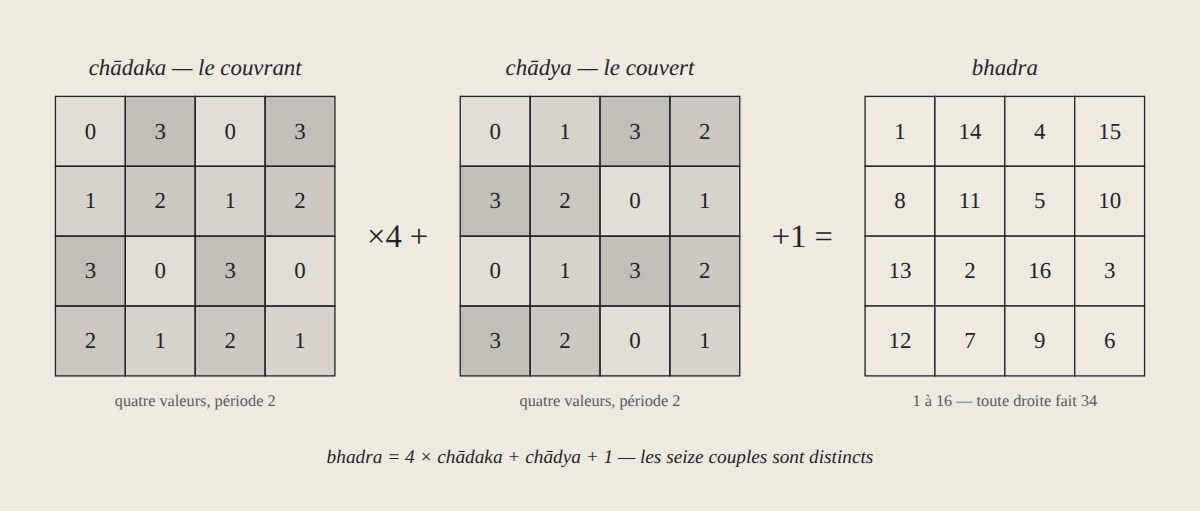
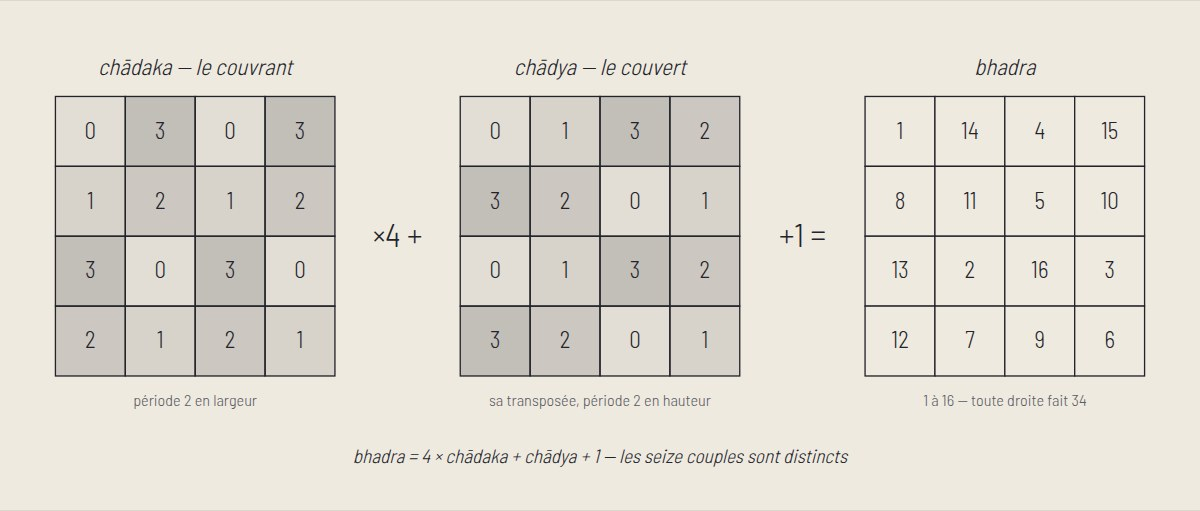
Article « Le fil et le carré » : figure corrigée, en ligne, et les deux passages d'Anibal
La figure corrigée par Anibal (déposée dans book-viewer/) remplace la
précédente dans assets/articles/chadya-chadaka.svg ; l'ancienne est gardée
dans assets/articles/anciennes/. Vérifiée : le chādya est la transposée du
chādaka, période 2 en largeur pour l'un, en hauteur pour l'autre ; leur
combinaison 4 × chādaka + chādya + 1 redonne le même carré, les seize
droites font 34.

Elle est incluse EN LIGNE dans la page, pour que son font-family:inherit
prenne la police du site : tools/figure_en_ligne.mjs l'y écrit depuis son
fichier (règles de style restreintes à la figure, vues étroites par <use>
sur la même figure, aucune copie à la main ; --verifie en CI). Les deux
passages de l'article corrigés par Anibal (la légende, et « Il y a plus
économe encore ») sont repris mot pour mot. Couverture refaite depuis le
rendu de la page ; texte alternatif repris de la description de la figure.

check_article.mjs et check_police_pages.mjs lisent la figure en ligne : 57
textes dans la police du site, six vues lisibles à 390 px.

Claude-Session: https://claude.ai/code/session_011CBGTEEw1pUWrFDkYyN71b

diff --git a/articles/le-fil-et-le-carre.html b/articles/le-fil-et-le-carre.html
@@ -149,27 +149,19 @@
   .article-content ul{ text-align:left; margin:0 0 18px; padding-left:1.4em; }
   .article-content li{ margin:0 0 6px; }
   .article-content ul.article-sources a{ color:var(--gold); text-decoration:underline; text-decoration-color:rgba(201,161,90,.45); text-underline-offset:3px; }
-  /* La figure est un SVG : vectorielle, son texte se lit à toute taille. En
-     entier sur un écran large ; sous 640 px, ses trois grilles passent l'une
-     sous l'autre plutôt que de rétrécir. Chaque vue est une fenêtre sur le
-     même fichier, non retouché : la fenêtre a les proportions du cadrage
-     (--w × --h, en unités du SVG), le SVG entier y est agrandi et décalé de
-     (--x, --y). */
-  .article-content figure.figure-svg img{ border:none; background:none; }
+  /* La figure est un SVG EN LIGNE (tools/figure_en_ligne.mjs) : vectorielle,
+     son texte prend la police du site (font-family:inherit) et se lit à toute
+     taille. En entier sur un écran large ; sous 640 px, ses trois grilles
+     passent l'une sous l'autre plutôt que de rétrécir : chaque vue est un
+     petit <svg viewBox="cadrage"> qui réutilise la même figure par <use>. */
+  .article-content figure.figure-svg svg{ display:block; width:100%; height:auto; }
   .figure-etroite{ display:none; }
   @media (max-width:640px){
-    .figure-large{ display:none !important; }
+    .article-content figure.figure-svg .figure-large{ display:none; }
     .figure-etroite{ display:flex; flex-direction:column; align-items:center; background:#efeae0; border:1px solid var(--line); padding:8px 0; }
-    .figure-etroite .vue{ display:block; overflow:hidden; aspect-ratio:var(--w) / var(--h); }
-    .article-content .figure-etroite .vue img{
-      display:block; max-width:none; height:auto;
-      width:calc(996 / var(--w) * 100%);
-      margin-left:calc(var(--x) / var(--w) * -100%);
-      margin-top:calc(var(--y) / var(--w) * -100%);
-    }
-    .figure-etroite .vue-grille{ width:min(100%, 300px); }
-    .figure-etroite .vue-operation{ width:72px; }
-    .figure-etroite .vue-formule{ width:100%; }
+    .article-content figure.figure-svg .figure-etroite .vue-grille{ width:min(100%, 300px); }
+    .article-content figure.figure-svg .figure-etroite .vue-operation{ width:72px; }
+    .article-content figure.figure-svg .figure-etroite .vue-formule{ width:100%; }
   }
   /* le code garde la police du site : une police à chasse fixe du système
      n'aurait ni la même allure ni, partout, le ā */
@@ -336,18 +328,139 @@
       <h3>La superposition de deux carrés</h3>
       <p>La méthode qui me parle le plus est celle du recouvrement. Nārāyaṇa construit un carré magique en superposant <b>deux carrés auxiliaires</b>, le <b>chādya</b> (le couvert) et le <b>chādaka</b> (le couvrant). Chacun est simple ; c'est leur composition qui porte la propriété.</p>
       <figure class="figure-svg">
-        <img class="figure-large" src="../assets/articles/chadya-chadaka.svg" alt="Deux trames de période 2, superposées, donnant un carré pandiagonal d&#x27;ordre 4 dont toutes les droites — lignes, colonnes et diagonales brisées — font 34." width="996" height="424" loading="lazy">
-        <div class="figure-etroite" role="img" aria-label="Deux trames de période 2, superposées, donnant un carré pandiagonal d&#x27;ordre 4 dont toutes les droites — lignes, colonnes et diagonales brisées — font 34.">
-          <span class="vue vue-grille" style="--x:36; --y:38; --w:252; --h:308"><img src="../assets/articles/chadya-chadaka.svg" alt="" width="996" height="424" loading="lazy"></span>
-          <span class="vue vue-operation" style="--x:290; --y:172; --w:80; --h:50"><img src="../assets/articles/chadya-chadaka.svg" alt="" width="996" height="424" loading="lazy"></span>
-          <span class="vue vue-grille" style="--x:372; --y:38; --w:252; --h:308"><img src="../assets/articles/chadya-chadaka.svg" alt="" width="996" height="424" loading="lazy"></span>
-          <span class="vue vue-operation" style="--x:626; --y:172; --w:80; --h:50"><img src="../assets/articles/chadya-chadaka.svg" alt="" width="996" height="424" loading="lazy"></span>
-          <span class="vue vue-grille" style="--x:708; --y:38; --w:252; --h:308"><img src="../assets/articles/chadya-chadaka.svg" alt="" width="996" height="424" loading="lazy"></span>
-          <span class="vue vue-formule" style="--x:250; --y:360; --w:496; --h:34"><img src="../assets/articles/chadya-chadaka.svg" alt="" width="996" height="424" loading="lazy"></span>
-        </div>
-        <figcaption>Le couvrant porte quatre valeurs, le couvert aussi ; ni l'un ni l'autre n'est magique. Mais les seize couples qu'ils forment sont tous distincts, et leur combinaison <code>4 × chādaka + chādya + 1</code> donne les entiers de 1 à 16 rangés de telle sorte que les seize droites du carré — quatre lignes, quatre colonnes, huit diagonales brisées — font toutes 34. J'ai vérifié les seize.</figcaption>
+      <!-- @figure:fig-chadya:start — engendré par tools/figure_en_ligne.mjs depuis assets/articles/chadya-chadaka.svg, ne pas éditer ici -->
+  <svg class="figure-large" viewBox="0 0 996 424" role="img" aria-label="Trois grilles de quatre sur quatre. À gauche le chādaka, dont les lignes se répètent de période deux en largeur. Au centre le chādya, sa transposée, de période deux en hauteur. À droite leur combinaison : les entiers de un à seize, dont les quatre lignes, les quatre colonnes et les huit diagonales brisées font toutes trente-quatre.">
+  <g id="fig-chadya">
+  <style>
+    #fig-chadya text{font-family:inherit;fill:#23232b}
+    #fig-chadya .t{font-size:19px;text-anchor:middle;font-style:italic}
+    #fig-chadya .s{font-size:13.5px;text-anchor:middle;fill:#5a5a62}
+    #fig-chadya .n{font-size:19px;text-anchor:middle}
+    #fig-chadya .op{font-size:27px;text-anchor:middle}
+    #fig-chadya .f{font-size:16px;text-anchor:middle;font-style:italic}
+  
+  </style>
+  <rect width="996" height="424" fill="#efeae0"/>
+  <text x="162.0" y="62" class="t">chādaka — le couvrant</text>
+  <text x="162.0" y="337" class="s">période 2 en largeur</text>
+  <rect x="46" y="80" width="58" height="58" fill="rgba(35,35,43,0.060)" stroke="#23232b" stroke-width="1.1"/>
+  <text x="75.0" y="115.0" class="n">0</text>
+  <rect x="104" y="80" width="58" height="58" fill="rgba(35,35,43,0.220)" stroke="#23232b" stroke-width="1.1"/>
+  <text x="133.0" y="115.0" class="n">3</text>
+  <rect x="162" y="80" width="58" height="58" fill="rgba(35,35,43,0.060)" stroke="#23232b" stroke-width="1.1"/>
+  <text x="191.0" y="115.0" class="n">0</text>
+  <rect x="220" y="80" width="58" height="58" fill="rgba(35,35,43,0.220)" stroke="#23232b" stroke-width="1.1"/>
+  <text x="249.0" y="115.0" class="n">3</text>
+  <rect x="46" y="138" width="58" height="58" fill="rgba(35,35,43,0.113)" stroke="#23232b" stroke-width="1.1"/>
+  <text x="75.0" y="173.0" class="n">1</text>
+  <rect x="104" y="138" width="58" height="58" fill="rgba(35,35,43,0.167)" stroke="#23232b" stroke-width="1.1"/>
+  <text x="133.0" y="173.0" class="n">2</text>
+  <rect x="162" y="138" width="58" height="58" fill="rgba(35,35,43,0.113)" stroke="#23232b" stroke-width="1.1"/>
+  <text x="191.0" y="173.0" class="n">1</text>
+  <rect x="220" y="138" width="58" height="58" fill="rgba(35,35,43,0.167)" stroke="#23232b" stroke-width="1.1"/>
+  <text x="249.0" y="173.0" class="n">2</text>
+  <rect x="46" y="196" width="58" height="58" fill="rgba(35,35,43,0.220)" stroke="#23232b" stroke-width="1.1"/>
+  <text x="75.0" y="231.0" class="n">3</text>
+  <rect x="104" y="196" width="58" height="58" fill="rgba(35,35,43,0.060)" stroke="#23232b" stroke-width="1.1"/>
+  <text x="133.0" y="231.0" class="n">0</text>
+  <rect x="162" y="196" width="58" height="58" fill="rgba(35,35,43,0.220)" stroke="#23232b" stroke-width="1.1"/>
+  <text x="191.0" y="231.0" class="n">3</text>
+  <rect x="220" y="196" width="58" height="58" fill="rgba(35,35,43,0.060)" stroke="#23232b" stroke-width="1.1"/>
+  <text x="249.0" y="231.0" class="n">0</text>
+  <rect x="46" y="254" width="58" height="58" fill="rgba(35,35,43,0.167)" stroke="#23232b" stroke-width="1.1"/>
+  <text x="75.0" y="289.0" class="n">2</text>
+  <rect x="104" y="254" width="58" height="58" fill="rgba(35,35,43,0.113)" stroke="#23232b" stroke-width="1.1"/>
+  <text x="133.0" y="289.0" class="n">1</text>
+  <rect x="162" y="254" width="58" height="58" fill="rgba(35,35,43,0.167)" stroke="#23232b" stroke-width="1.1"/>
+  <text x="191.0" y="289.0" class="n">2</text>
+  <rect x="220" y="254" width="58" height="58" fill="rgba(35,35,43,0.113)" stroke="#23232b" stroke-width="1.1"/>
+  <text x="249.0" y="289.0" class="n">1</text>
+  <text x="498.0" y="62" class="t">chādya — le couvert</text>
+  <text x="498.0" y="337" class="s">sa transposée, période 2 en hauteur</text>
+  <rect x="382" y="80" width="58" height="58" fill="rgba(35,35,43,0.060)" stroke="#23232b" stroke-width="1.1"/>
+  <text x="411.0" y="115.0" class="n">0</text>
+  <rect x="440" y="80" width="58" height="58" fill="rgba(35,35,43,0.113)" stroke="#23232b" stroke-width="1.1"/>
+  <text x="469.0" y="115.0" class="n">1</text>
+  <rect x="498" y="80" width="58" height="58" fill="rgba(35,35,43,0.220)" stroke="#23232b" stroke-width="1.1"/>
+  <text x="527.0" y="115.0" class="n">3</text>
+  <rect x="556" y="80" width="58" height="58" fill="rgba(35,35,43,0.167)" stroke="#23232b" stroke-width="1.1"/>
+  <text x="585.0" y="115.0" class="n">2</text>
+  <rect x="382" y="138" width="58" height="58" fill="rgba(35,35,43,0.220)" stroke="#23232b" stroke-width="1.1"/>
+  <text x="411.0" y="173.0" class="n">3</text>
+  <rect x="440" y="138" width="58" height="58" fill="rgba(35,35,43,0.167)" stroke="#23232b" stroke-width="1.1"/>
+  <text x="469.0" y="173.0" class="n">2</text>
+  <rect x="498" y="138" width="58" height="58" fill="rgba(35,35,43,0.060)" stroke="#23232b" stroke-width="1.1"/>
+  <text x="527.0" y="173.0" class="n">0</text>
+  <rect x="556" y="138" width="58" height="58" fill="rgba(35,35,43,0.113)" stroke="#23232b" stroke-width="1.1"/>
+  <text x="585.0" y="173.0" class="n">1</text>
+  <rect x="382" y="196" width="58" height="58" fill="rgba(35,35,43,0.060)" stroke="#23232b" stroke-width="1.1"/>
+  <text x="411.0" y="231.0" class="n">0</text>
+  <rect x="440" y="196" width="58" height="58" fill="rgba(35,35,43,0.113)" stroke="#23232b" stroke-width="1.1"/>
+  <text x="469.0" y="231.0" class="n">1</text>
+  <rect x="498" y="196" width="58" height="58" fill="rgba(35,35,43,0.220)" stroke="#23232b" stroke-width="1.1"/>
+  <text x="527.0" y="231.0" class="n">3</text>
+  <rect x="556" y="196" width="58" height="58" fill="rgba(35,35,43,0.167)" stroke="#23232b" stroke-width="1.1"/>
+  <text x="585.0" y="231.0" class="n">2</text>
+  <rect x="382" y="254" width="58" height="58" fill="rgba(35,35,43,0.220)" stroke="#23232b" stroke-width="1.1"/>
+  <text x="411.0" y="289.0" class="n">3</text>
+  <rect x="440" y="254" width="58" height="58" fill="rgba(35,35,43,0.167)" stroke="#23232b" stroke-width="1.1"/>
+  <text x="469.0" y="289.0" class="n">2</text>
+  <rect x="498" y="254" width="58" height="58" fill="rgba(35,35,43,0.060)" stroke="#23232b" stroke-width="1.1"/>
+  <text x="527.0" y="289.0" class="n">0</text>
+  <rect x="556" y="254" width="58" height="58" fill="rgba(35,35,43,0.113)" stroke="#23232b" stroke-width="1.1"/>
+  <text x="585.0" y="289.0" class="n">1</text>
+  <text x="834.0" y="62" class="t">bhadra</text>
+  <text x="834.0" y="337" class="s">1 à 16 — toute droite fait 34</text>
+  <rect x="718" y="80" width="58" height="58" fill="#efeae0" stroke="#23232b" stroke-width="1.1"/>
+  <text x="747.0" y="115.0" class="n">1</text>
+  <rect x="776" y="80" width="58" height="58" fill="#efeae0" stroke="#23232b" stroke-width="1.1"/>
+  <text x="805.0" y="115.0" class="n">14</text>
+  <rect x="834" y="80" width="58" height="58" fill="#efeae0" stroke="#23232b" stroke-width="1.1"/>
+  <text x="863.0" y="115.0" class="n">4</text>
+  <rect x="892" y="80" width="58" height="58" fill="#efeae0" stroke="#23232b" stroke-width="1.1"/>
+  <text x="921.0" y="115.0" class="n">15</text>
+  <rect x="718" y="138" width="58" height="58" fill="#efeae0" stroke="#23232b" stroke-width="1.1"/>
+  <text x="747.0" y="173.0" class="n">8</text>
+  <rect x="776" y="138" width="58" height="58" fill="#efeae0" stroke="#23232b" stroke-width="1.1"/>
+  <text x="805.0" y="173.0" class="n">11</text>
+  <rect x="834" y="138" width="58" height="58" fill="#efeae0" stroke="#23232b" stroke-width="1.1"/>
+  <text x="863.0" y="173.0" class="n">5</text>
+  <rect x="892" y="138" width="58" height="58" fill="#efeae0" stroke="#23232b" stroke-width="1.1"/>
+  <text x="921.0" y="173.0" class="n">10</text>
+  <rect x="718" y="196" width="58" height="58" fill="#efeae0" stroke="#23232b" stroke-width="1.1"/>
+  <text x="747.0" y="231.0" class="n">13</text>
+  <rect x="776" y="196" width="58" height="58" fill="#efeae0" stroke="#23232b" stroke-width="1.1"/>
+  <text x="805.0" y="231.0" class="n">2</text>
+  <rect x="834" y="196" width="58" height="58" fill="#efeae0" stroke="#23232b" stroke-width="1.1"/>
+  <text x="863.0" y="231.0" class="n">16</text>
+  <rect x="892" y="196" width="58" height="58" fill="#efeae0" stroke="#23232b" stroke-width="1.1"/>
+  <text x="921.0" y="231.0" class="n">3</text>
+  <rect x="718" y="254" width="58" height="58" fill="#efeae0" stroke="#23232b" stroke-width="1.1"/>
+  <text x="747.0" y="289.0" class="n">12</text>
+  <rect x="776" y="254" width="58" height="58" fill="#efeae0" stroke="#23232b" stroke-width="1.1"/>
+  <text x="805.0" y="289.0" class="n">7</text>
+  <rect x="834" y="254" width="58" height="58" fill="#efeae0" stroke="#23232b" stroke-width="1.1"/>
+  <text x="863.0" y="289.0" class="n">9</text>
+  <rect x="892" y="254" width="58" height="58" fill="#efeae0" stroke="#23232b" stroke-width="1.1"/>
+  <text x="921.0" y="289.0" class="n">6</text>
+  <text x="330.0" y="205.0" class="op">×4  +</text>
+  <text x="666.0" y="205.0" class="op">+1  =</text>
+  <text x="498.0" y="384" class="f">bhadra = 4 × chādaka + chādya + 1 — les seize couples sont distincts</text>
+  </g>
+  </svg>
+  <div class="figure-etroite" role="img" aria-label="Trois grilles de quatre sur quatre. À gauche le chādaka, dont les lignes se répètent de période deux en largeur. Au centre le chādya, sa transposée, de période deux en hauteur. À droite leur combinaison : les entiers de un à seize, dont les quatre lignes, les quatre colonnes et les huit diagonales brisées font toutes trente-quatre.">
+    <svg class="vue vue-grille" viewBox="36 38 252 308" aria-hidden="true" focusable="false"><use href="#fig-chadya"/></svg>
+    <svg class="vue vue-operation" viewBox="290 172 80 50" aria-hidden="true" focusable="false"><use href="#fig-chadya"/></svg>
+    <svg class="vue vue-grille" viewBox="372 38 252 308" aria-hidden="true" focusable="false"><use href="#fig-chadya"/></svg>
+    <svg class="vue vue-operation" viewBox="626 172 80 50" aria-hidden="true" focusable="false"><use href="#fig-chadya"/></svg>
+    <svg class="vue vue-grille" viewBox="708 38 252 308" aria-hidden="true" focusable="false"><use href="#fig-chadya"/></svg>
+    <svg class="vue vue-formule" viewBox="250 360 496 34" aria-hidden="true" focusable="false"><use href="#fig-chadya"/></svg>
+  </div>
+<!-- @figure:fig-chadya:end -->
+        <figcaption>Le couvrant est une trame de période 2 en largeur ; le couvert est <b>sa transposée</b>, donc de période 2 en hauteur. Ni l'un ni l'autre n'est magique. Mais les seize couples qu'ils forment sont tous distincts, et leur combinaison <code>4 × chādaka + chādya + 1</code> donne les entiers de 1 à 16 rangés de telle sorte que les seize droites du carré — quatre lignes, quatre colonnes, huit diagonales brisées — font toutes 34. J'ai vérifié les seize.</figcaption>
       </figure>
-      <p>C'est, structurellement, ce que je fais : une figure n'est pas dessinée, elle est le résultat de couches combinées, et la loi vit dans la combinaison plutôt que dans le dessin. Et le point commun le plus net est celui-ci : <b>aucune des deux couches ne porte la propriété.</b> Elle n'apparaît qu'à la superposition — comme une parité qui n'existe dans aucun axe pris seul. Mon système compose des axes par une parité ; le sien compose deux tableaux par une addition. L'opération diffère, le geste est le même — <b>déléguer la propriété à la composition</b>.</p>
+      <p>C'est, structurellement, ce que je fais : une figure n'est pas dessinée, elle est le résultat de couches combinées, et la loi vit dans la combinaison plutôt que dans le dessin. Et le point commun le plus net est celui-ci : <b>aucune des deux couches ne porte la propriété.</b> Elle n'apparaît qu'à la superposition — comme une parité qui n'existe dans aucun axe pris seul.</p>
+      <p>Il y a plus économe encore. Puisque le couvert est la transposée du couvrant, <b>il n'y a pas deux trames mais une seule</b>, posée deux fois, la seconde tournée d'un quart de tour. Toute la construction tient dans un motif et son transposé. C'est le genre de dépouillement que je cherche dans mon propre système, et le trouver là me confirme que la voie est praticable. Mon système compose des axes par une parité ; le sien compose deux tableaux par une addition. L'opération diffère, le geste est le même — <b>déléguer la propriété à la composition</b>.</p>
       <h3>Le pas du cheval</h3>
       <p>Son autre méthode porte un nom qui dit tout : <b>turagagati</b>, la marche du cheval. Les nombres se posent par pas de cavalier, par paires tirées de progressions, selon un ordre (<b>krama</b>) ou son renversement (<b>utkrama</b>).</p>
       <p>Un parcours réglé qui engendre une figure globale : c'est encore un air de famille avec une construction par règle plutôt que par placement.</p>

diff --git a/articles.html b/articles.html
@@ -312,7 +312,7 @@
 
     <div class="article-grid" id="articleGrid" aria-live="polite">
       <!-- @articles:start — engendré depuis assets/articles-data.js (scripts/build-articles.js) -->
-      <a class="article-card" href="https://anibal-amiot.com/articles/le-fil-et-le-carre.html"><img class="article-cover" src="https://anibal-amiot.com/assets/articles/le-fil-et-le-carre-cover.jpg" alt="Deux trames de période 2, superposées, donnant un carré pandiagonal d&#39;ordre 4 dont toutes les droites — lignes, colonnes et diagonales brisées — font 34." loading="lazy"><div class="article-card-body"><div class="article-badges"><span class="article-badge">Géométrie</span><span class="article-badge">Sagesse</span><span class="article-badge">Livrée</span></div><h2>Le fil et le carré — ce que la tradition indienne a construit avant nous</h2><p class="article-date">Publié le 4 octobre 2026</p><p class="article-excerpt">Deux systèmes élaborés dans des langues et des siècles différents arrivent aux mêmes objets. Quand ça se produit, ce n&#39;est généralement pas une coïncidence — c&#39;est que l&#39;objet existait avant les deux.</p></div></a>
+      <a class="article-card" href="https://anibal-amiot.com/articles/le-fil-et-le-carre.html"><img class="article-cover" src="https://anibal-amiot.com/assets/articles/le-fil-et-le-carre-cover.jpg" alt="Trois grilles de quatre sur quatre. À gauche le chādaka, dont les lignes se répètent de période deux en largeur. Au centre le chādya, sa transposée, de période deux en hauteur. À droite leur combinaison : les entiers de un à seize, dont les quatre lignes, les quatre colonnes et les huit diagonales brisées font toutes trente-quatre." loading="lazy"><div class="article-card-body"><div class="article-badges"><span class="article-badge">Géométrie</span><span class="article-badge">Sagesse</span><span class="article-badge">Livrée</span></div><h2>Le fil et le carré — ce que la tradition indienne a construit avant nous</h2><p class="article-date">Publié le 4 octobre 2026</p><p class="article-excerpt">Deux systèmes élaborés dans des langues et des siècles différents arrivent aux mêmes objets. Quand ça se produit, ce n&#39;est généralement pas une coïncidence — c&#39;est que l&#39;objet existait avant les deux.</p></div></a>
       <a class="article-card" href="https://anibal-amiot.com/articles/axes-lignes-nodales.html"><img class="article-cover" src="https://anibal-amiot.com/assets/articles/axes-lignes-nodales-cover.jpg" alt="Trois damiers 12×12 en or et noir : les motifs nodaux des modes (2,2) et (4,4) d&#39;une plaque carrée, bords fixes et bords libres" loading="lazy"><div class="article-card-body"><div class="article-badges"><span class="article-badge">Géométrie</span><span class="article-badge">Philosophie</span><span class="article-badge">Livrée</span></div><h2>Les axes sont des lignes nodales</h2><p class="article-date">Publié le 24 septembre 2026</p><p class="article-excerpt">Trois motifs bicolores, vérifiés triangle par triangle, coïncident exactement avec des modes propres d&#39;une plaque carrée — et la mutation se lit comme un changement de condition au bord.</p></div></a>
       <a class="article-card" href="https://anibal-amiot.com/articles/encodeur-cacher-n-est-pas-proteger.html"><img class="article-cover" src="https://anibal-amiot.com/assets/articles/encodeur-referent-256-cover.jpg" alt="Détail d&#39;une rangée de carrés du Référent 256, issus de la croix ansée, en quatre couleurs" loading="lazy"><div class="article-card-body"><div class="article-badges"><span class="article-badge">Géométrie</span><span class="article-badge">Philosophie</span><span class="article-badge">Livrée</span></div><h2>L&#39;encodeur : cacher n&#39;est pas protéger</h2><p class="article-date">Publié le 16 septembre 2026</p><p class="article-excerpt">Un message chiffré dissimulé dans une grille de symboles, aux positions désignées par la croix ansée et le métier Jacquard — et pourquoi la géométrie n&#39;y protège rien.</p></div></a>
       <a class="article-card" href="https://anibal-amiot.com/articles/cymatique-spectre-d-un-motif.html"><picture><source srcset="https://anibal-amiot.com/assets/articles/cymatique-quinze-gammes-cover.avif" type="image/avif"><img class="article-cover" src="https://anibal-amiot.com/assets/articles/cymatique-quinze-gammes-cover.jpg" alt="Bandeau des quinze motifs Yin et Yang du traité, en noir et blanc, côte à côte" loading="lazy"></picture><div class="article-card-body"><div class="article-badges"><span class="article-badge">Géométrie</span><span class="article-badge">Philosophie</span><span class="article-badge">Livrée</span></div><h2>Cymatique : ce que le spectre d&#39;un motif laisse voir</h2><p class="article-date">Publié le 16 septembre 2026</p><p class="article-excerpt">De la plaque de Chladni au pavage : les quinze gammes du traité ont des fréquences spatiales dont les carrés sont entiers — la forme même que prennent les modes d&#39;une plaque carrée.</p></div></a>

diff --git a/assets/articles-data.js b/assets/articles-data.js
@@ -34,7 +34,7 @@ window.ARTICLES = [
     categories: ["Géométrie", "Sagesse", "Livrée"],
     excerpt: "Deux systèmes élaborés dans des langues et des siècles différents arrivent aux mêmes objets. Quand ça se produit, ce n'est généralement pas une coïncidence — c'est que l'objet existait avant les deux.",
     cover: "https://anibal-amiot.com/assets/articles/le-fil-et-le-carre-cover.jpg",
-    coverAlt: "Deux trames de période 2, superposées, donnant un carré pandiagonal d'ordre 4 dont toutes les droites — lignes, colonnes et diagonales brisées — font 34."
+    coverAlt: "Trois grilles de quatre sur quatre. À gauche le chādaka, dont les lignes se répètent de période deux en largeur. Au centre le chādya, sa transposée, de période deux en hauteur. À droite leur combinaison : les entiers de un à seize, dont les quatre lignes, les quatre colonnes et les huit diagonales brisées font toutes trente-quatre."
   },
   {
     slug: "axes-lignes-nodales",
